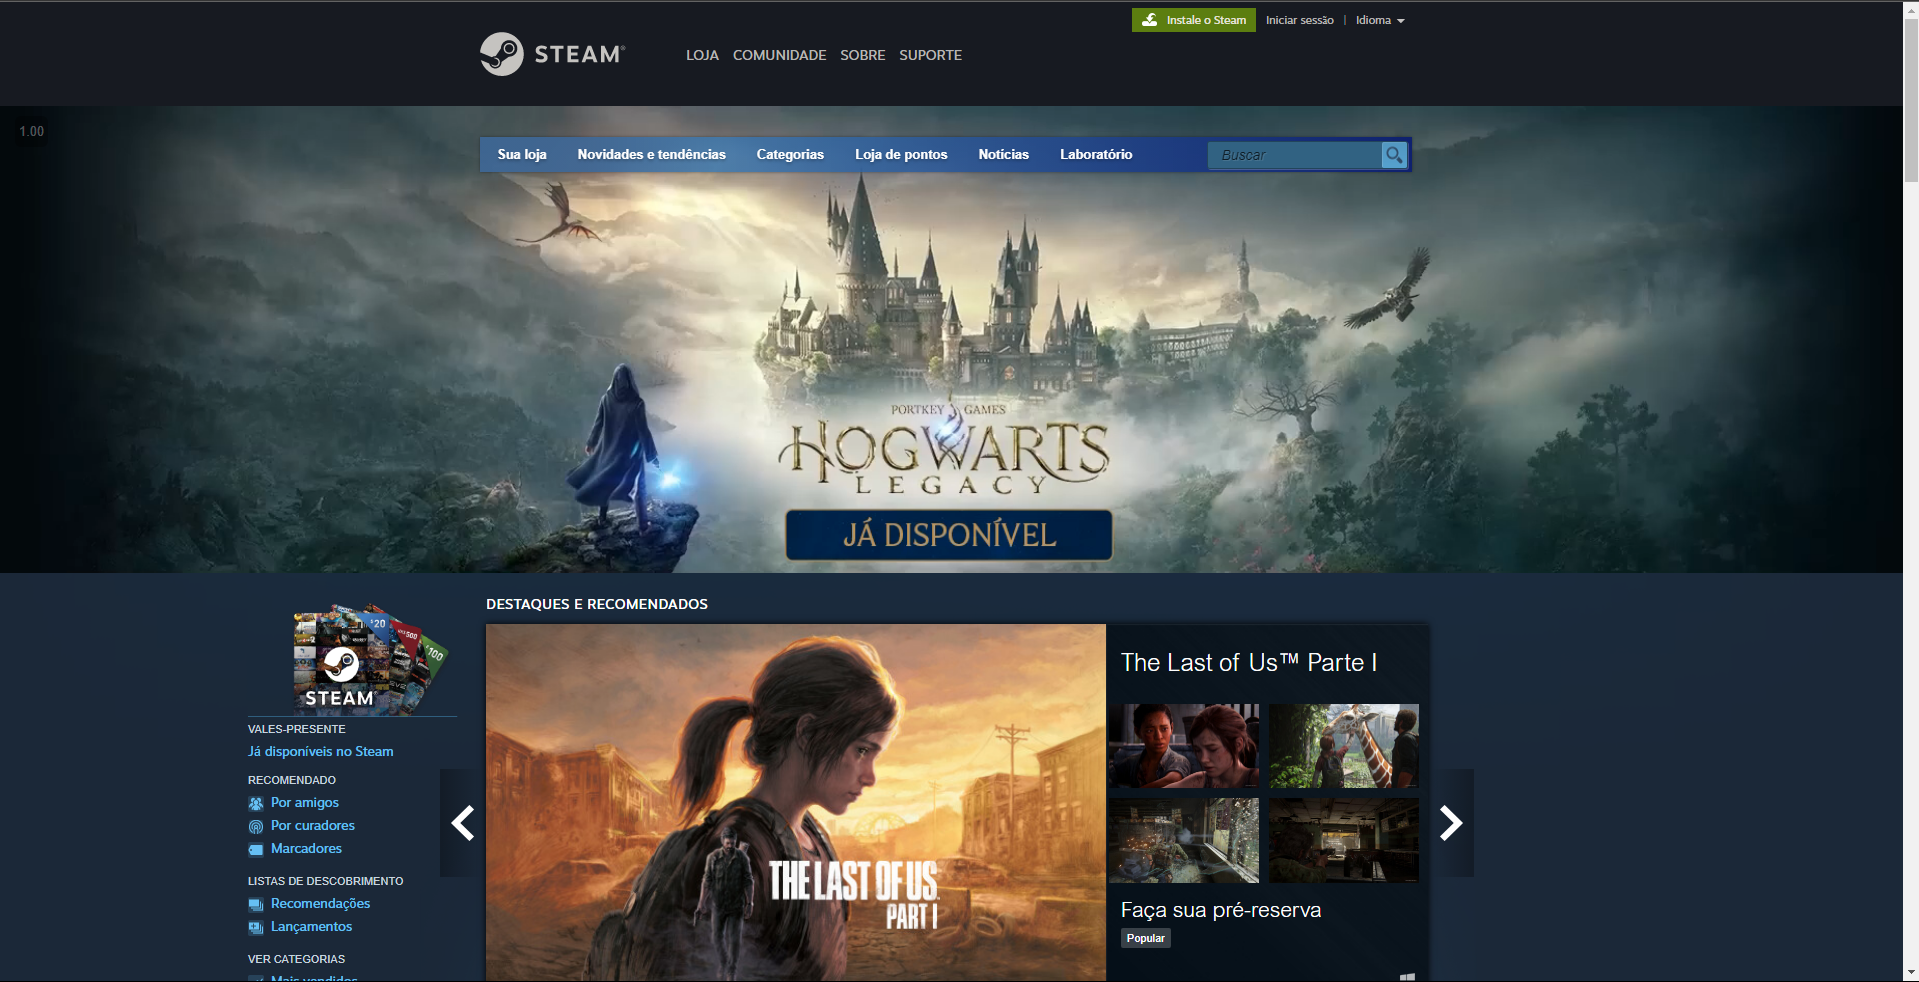
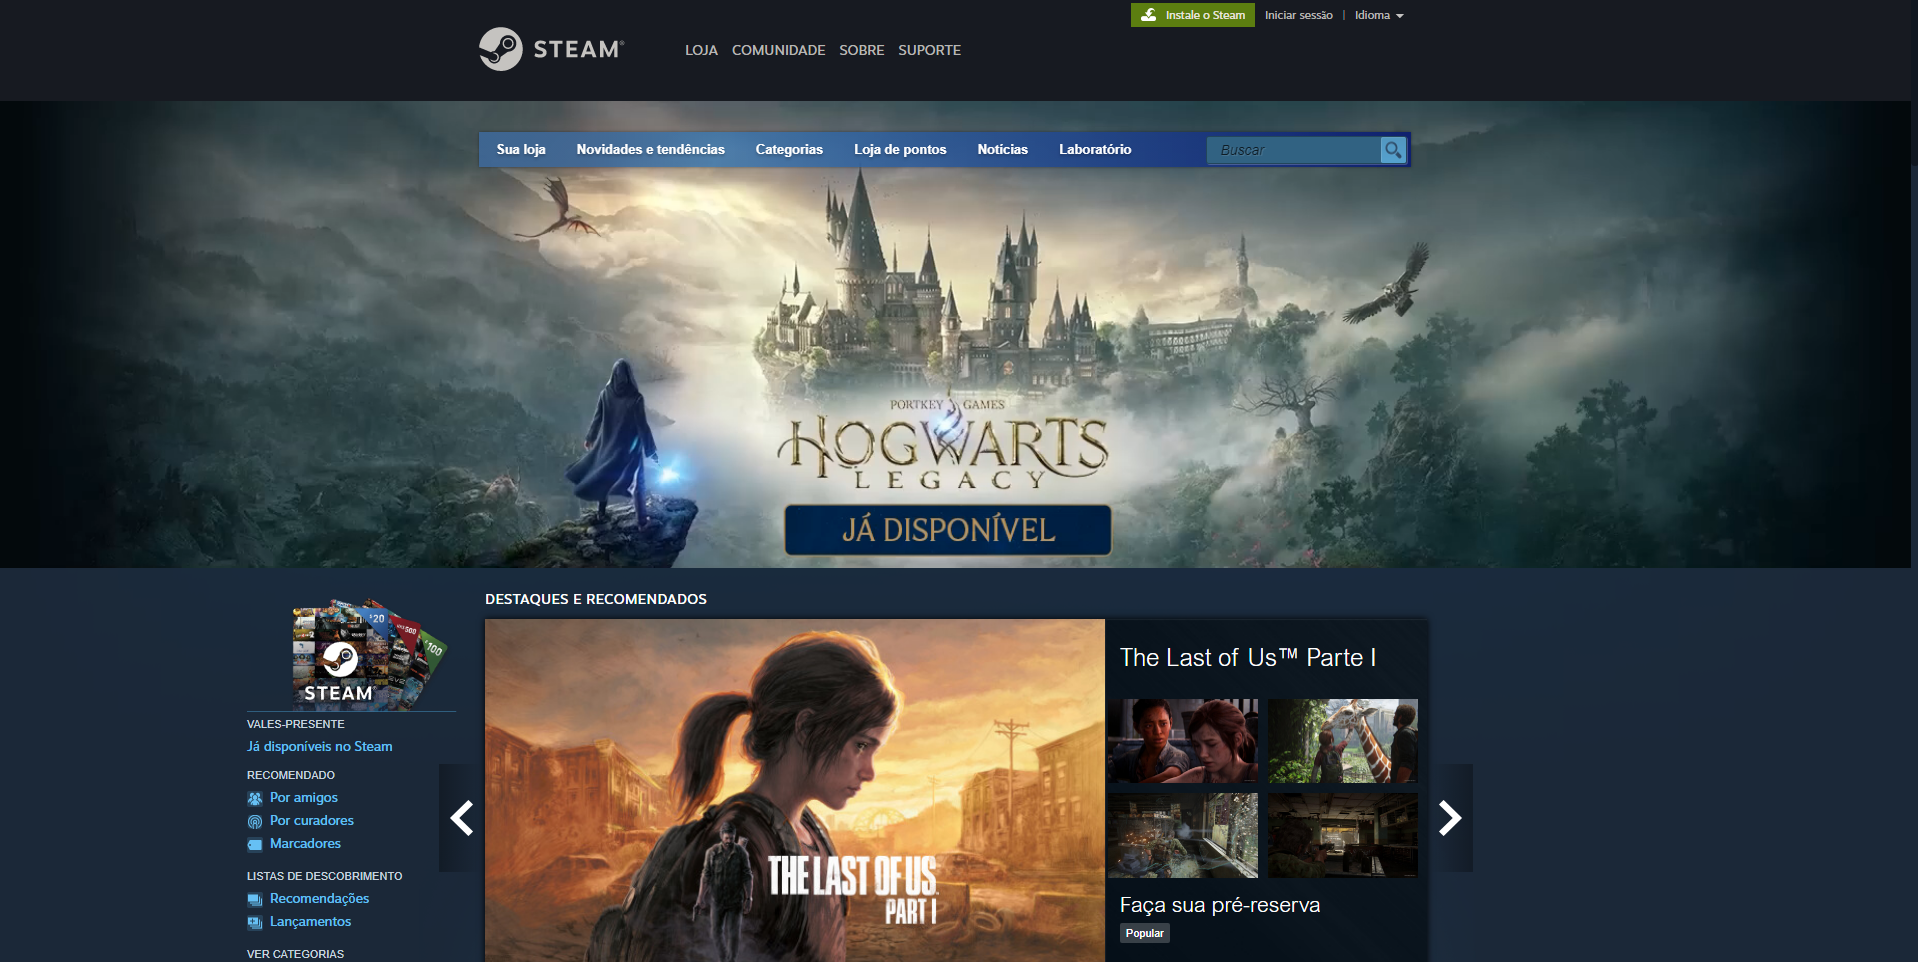
modificando preview

diff --git a/assets/css/reset.css b/assets/css/reset.css
@@ -7,3 +7,15 @@
     font-size: 16px;
     text-decoration: none;
 }
+
+::-webkit-scrollbar {
+    width: 8px;
+    
+}
+::-webkit-scrollbar-track {
+    background-color: #1B2838;
+}
+::-webkit-scrollbar-thumb {
+    background-color: #101720;
+    border-radius: 5px;
+}
